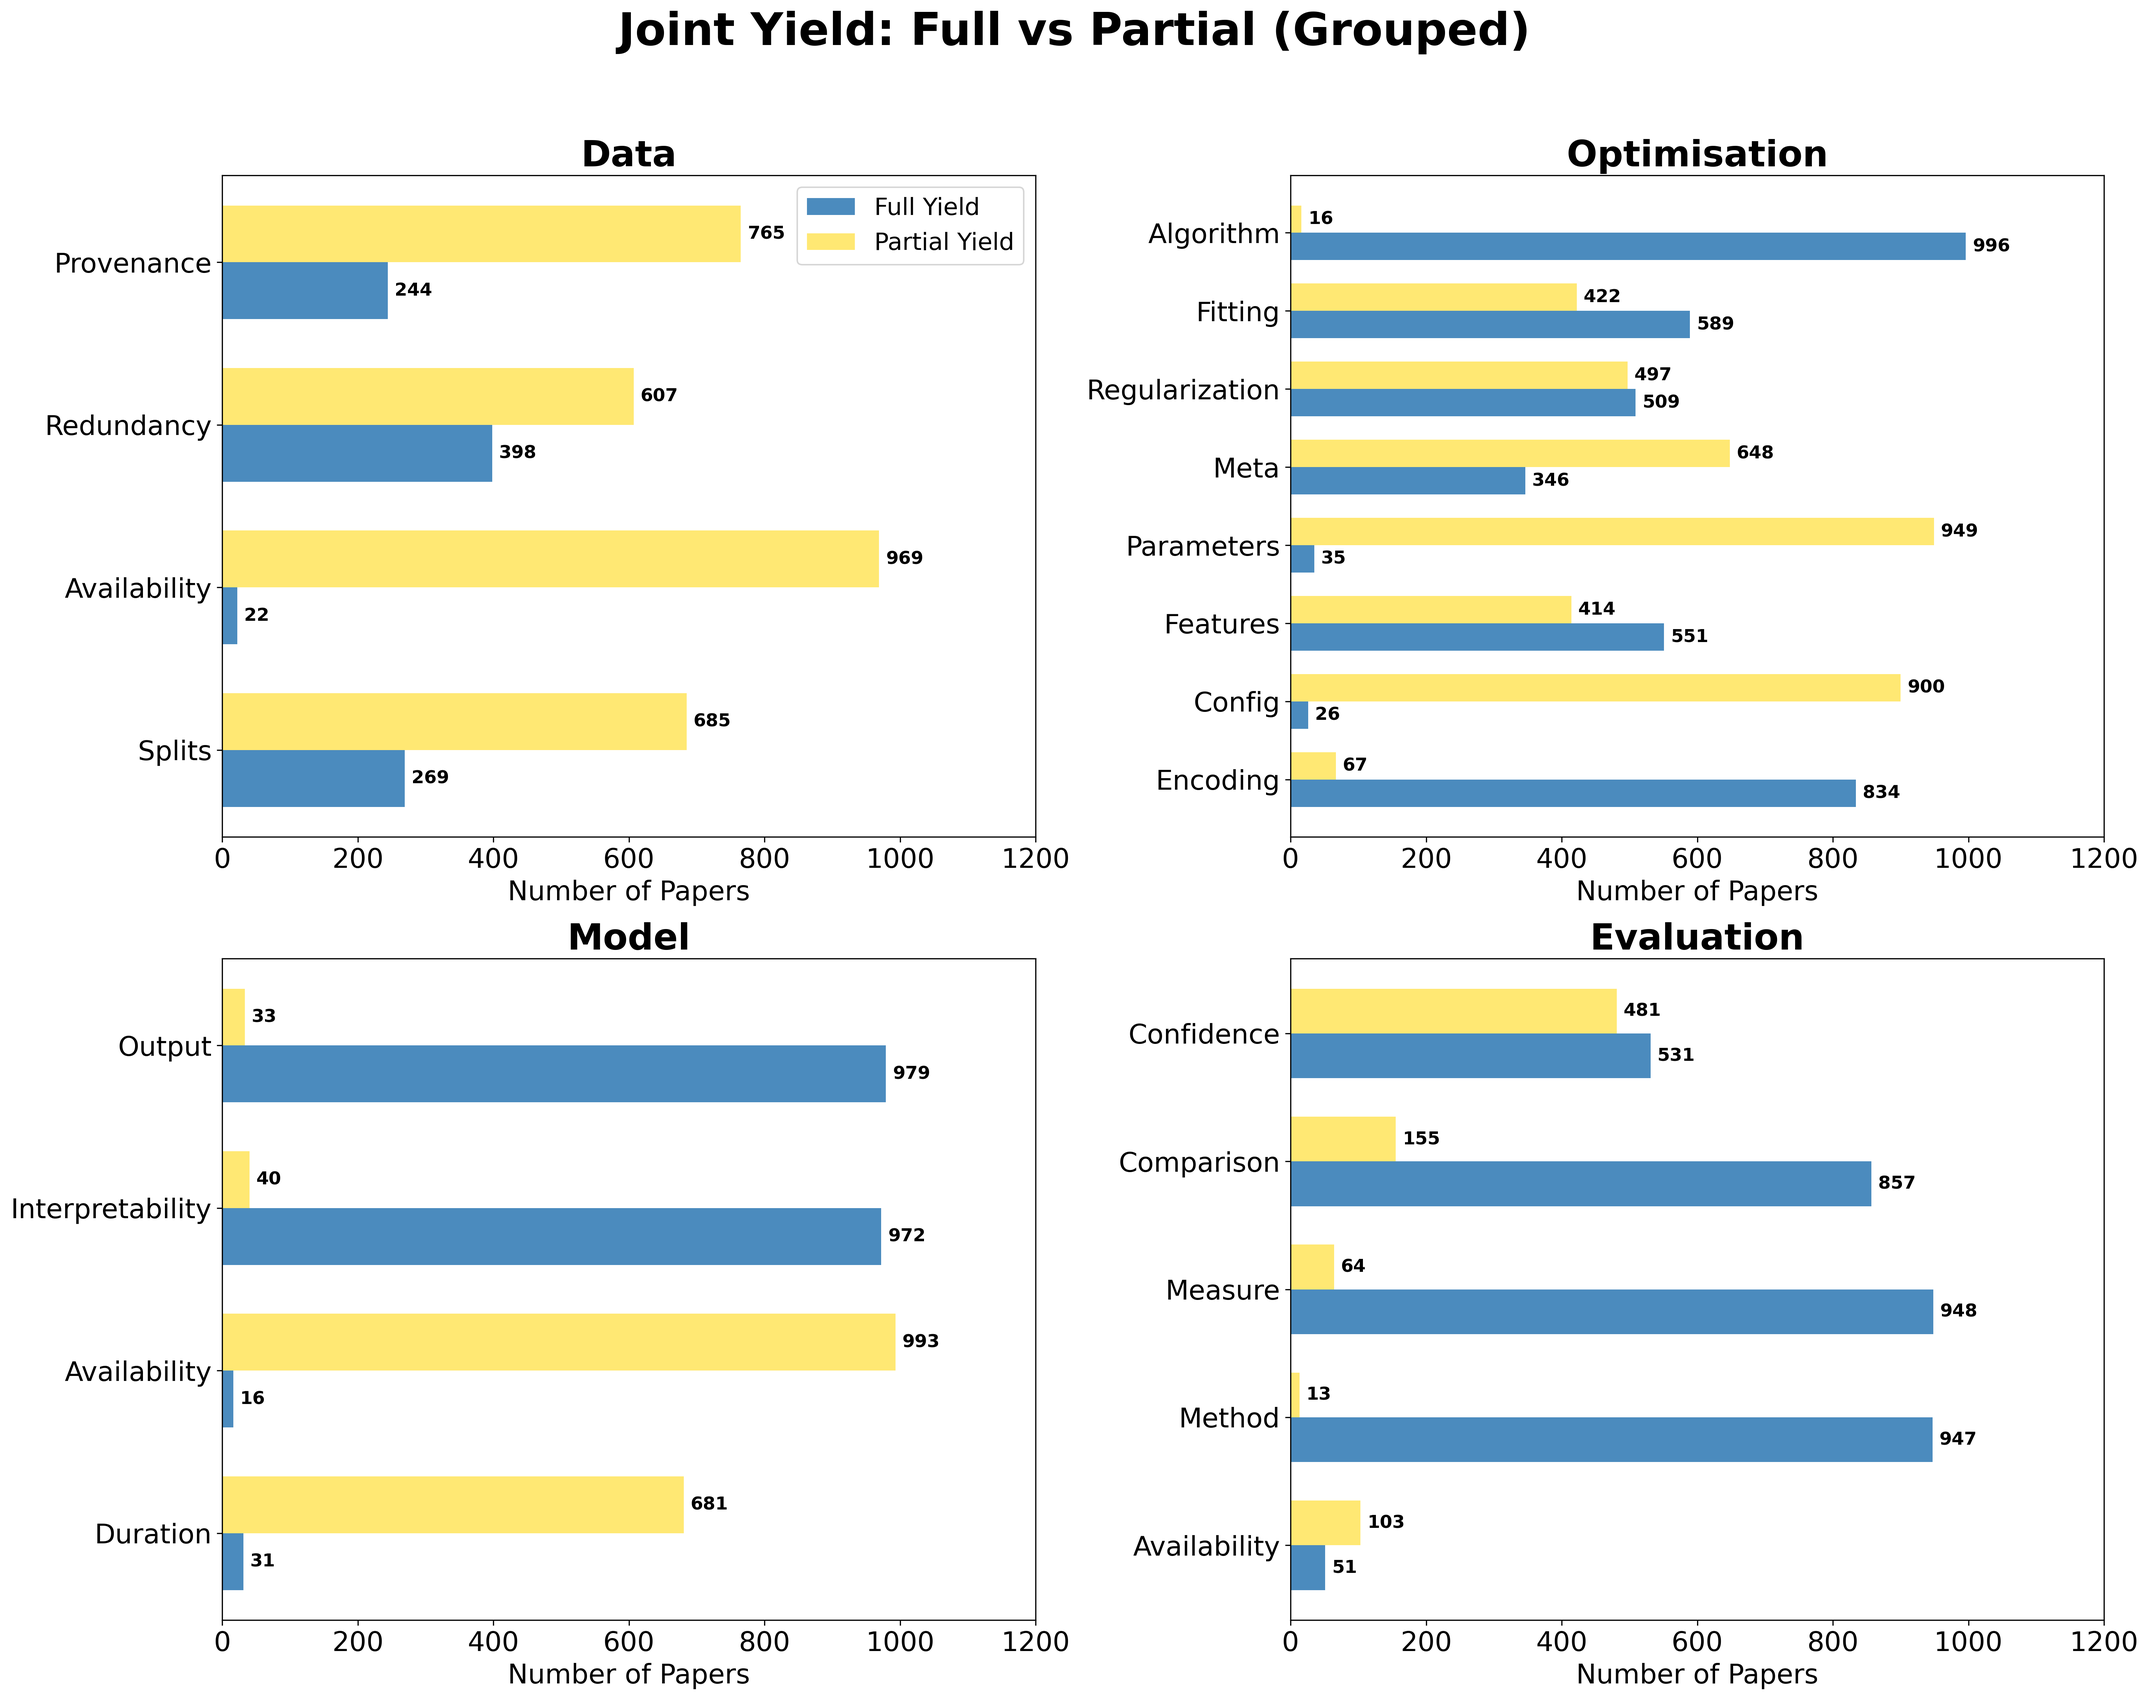
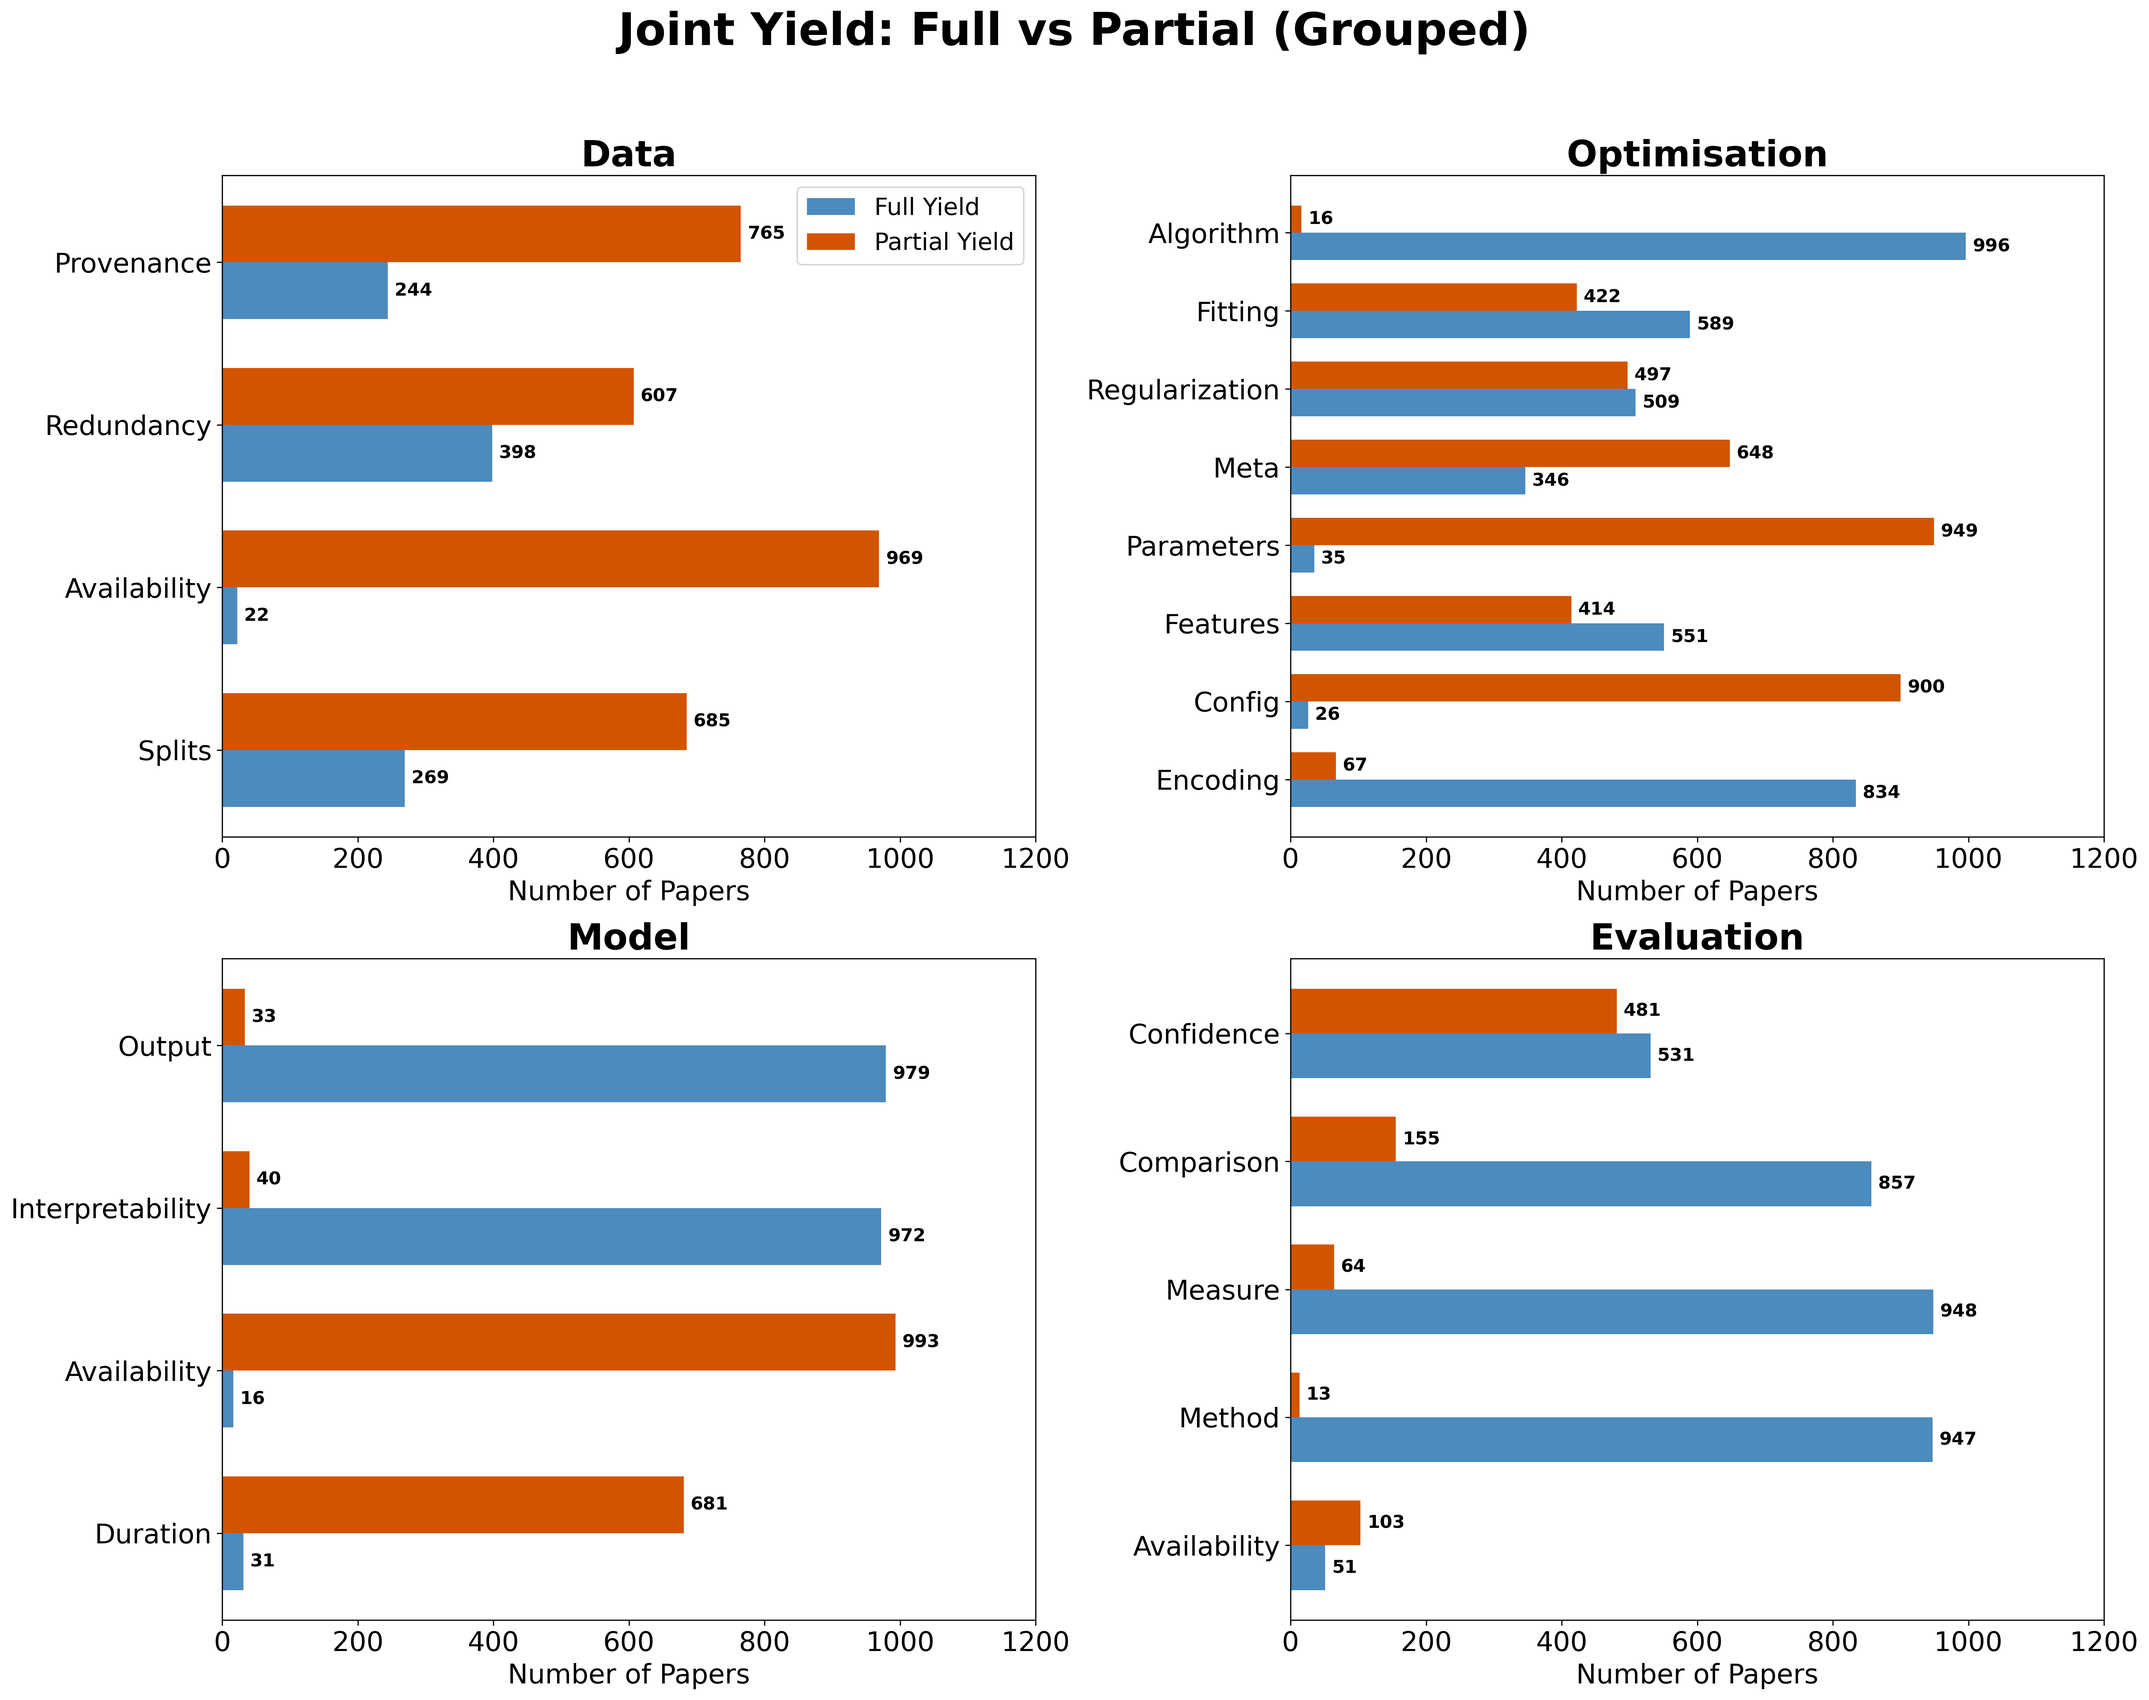
Graphing panels

diff --git a/Publication_Figures/generate_graph_panels.py b/Publication_Figures/generate_graph_panels.py
@@ -222,29 +222,48 @@ def create_joint_stacked_plot(data_df, title_suffix, xlabel, filename):
         # Plot Full
         bar1 = ax.barh(df_sub['Subfield'], df_sub['FullCount'], color='#4B8BBE', label='Full Yield')
         # Plot Partial on top
-        bar2 = ax.barh(df_sub['Subfield'], df_sub['PartialCount'], left=df_sub['FullCount'], color='#FFE873', label='Partial Yield')
+        bar2 = ax.barh(df_sub['Subfield'], df_sub['PartialCount'], left=df_sub['FullCount'], color='#D35400', label='Partial Yield')
         
         ax.set_title(category, fontweight='bold', fontsize=24)
         ax.set_xlabel(xlabel, fontsize=18)
         ax.tick_params(axis='both', which='major', labelsize=18)
-        ax.set_xlim(0, max(1200, total_files + 50)) 
-        
-        if i == 0:
-            ax.legend(fontsize=16)
+        ax.set_xlim(0, max(1200, total_files + 150)) 
 
         # Add text
         for idx, row in df_sub.reset_index(drop=True).iterrows():
             total = row['TotalCount']
             full = row['FullCount']
             partial = row['PartialCount']
+            
+            # 1) Total cap on end of bar in Black
             if total > 0:
-                ax.text(total + 10, idx, f'{int(total)}', ha='left', va='center', fontsize=16, fontweight='bold')
+                ax.text(total + 25, idx, f'{int(total)}', ha='left', va='center', fontsize=20, fontweight='bold', color='black')
+                
+            # 2) Full Yield subtotal completely inside or pointing inside, coloured White
             if full > 0:
-                ax.text(full / 2, idx, f'{int(full)}', ha='center', va='center', color='white', fontsize=12, fontweight='bold')
+                if full > 45 or total < 45:
+                    ax.text(full / 2, idx, f'{int(full)}', ha='center', va='center', color='white', fontsize=20, fontweight='bold')
+                else:
+                    # Move text horizontally into the partial bar's space, but keep it white
+                    ax.annotate(f'{int(full)}', xy=(full / 2, idx), xytext=(full + 15, idx),
+                                ha='left', va='center', color='white', fontsize=20, fontweight='bold',
+                                arrowprops=dict(arrowstyle="-", color='white', shrinkA=0, shrinkB=0, lw=1.5))
+                                
+            # 3) Partial Yield subtotal completely inside or pointing inside, coloured White
             if partial > 0:
-                ax.text(full + (partial / 2), idx, f'{int(partial)}', ha='center', va='center', color='black', fontsize=12, fontweight='bold')
+                if partial > 45 or total < 45:
+                    ax.text(full + (partial / 2), idx, f'{int(partial)}', ha='center', va='center', color='white', fontsize=20, fontweight='bold')
+                else:
+                    # Move text horizontally into the full bar's space, keeping it white
+                    ax.annotate(f'{int(partial)}', xy=(full + (partial / 2), idx), xytext=(full - 15, idx),
+                                ha='right', va='center', color='white', fontsize=20, fontweight='bold',
+                                arrowprops=dict(arrowstyle="-", color='white', shrinkA=0, shrinkB=0, lw=1.5))
 
-    plt.tight_layout(rect=[0, 0, 1, 0.95])
+    # Single figure-level legend at top right
+    fig.legend(['Full Yield', 'Partial Yield'], loc='upper right', fontsize=18, bbox_to_anchor=(0.98, 0.98), ncol=2)
+    
+    # Adjusted tight_layout for more vertical space and top legend room
+    plt.tight_layout(rect=[0, 0, 1, 0.93], h_pad=4.0)
     path = os.path.join(OUTPUT_FOLDER, filename)
     plt.savefig(path, dpi=300, bbox_inches='tight')
     plt.close()
@@ -286,7 +305,7 @@ def create_joint_grouped_plot(data_df, title_suffix, xlabel, filename):
         height = 0.35
         
         bar1 = ax.barh(y - height/2, df_sub['FullCount'], height, color='#4B8BBE', label='Full Yield')
-        bar2 = ax.barh(y + height/2, df_sub['PartialCount'], height, color='#FFE873', label='Partial Yield')
+        bar2 = ax.barh(y + height/2, df_sub['PartialCount'], height, color='#D35400', label='Partial Yield')
         
         ax.set_yticks(y)
         ax.set_yticklabels(df_sub['Subfield'])
